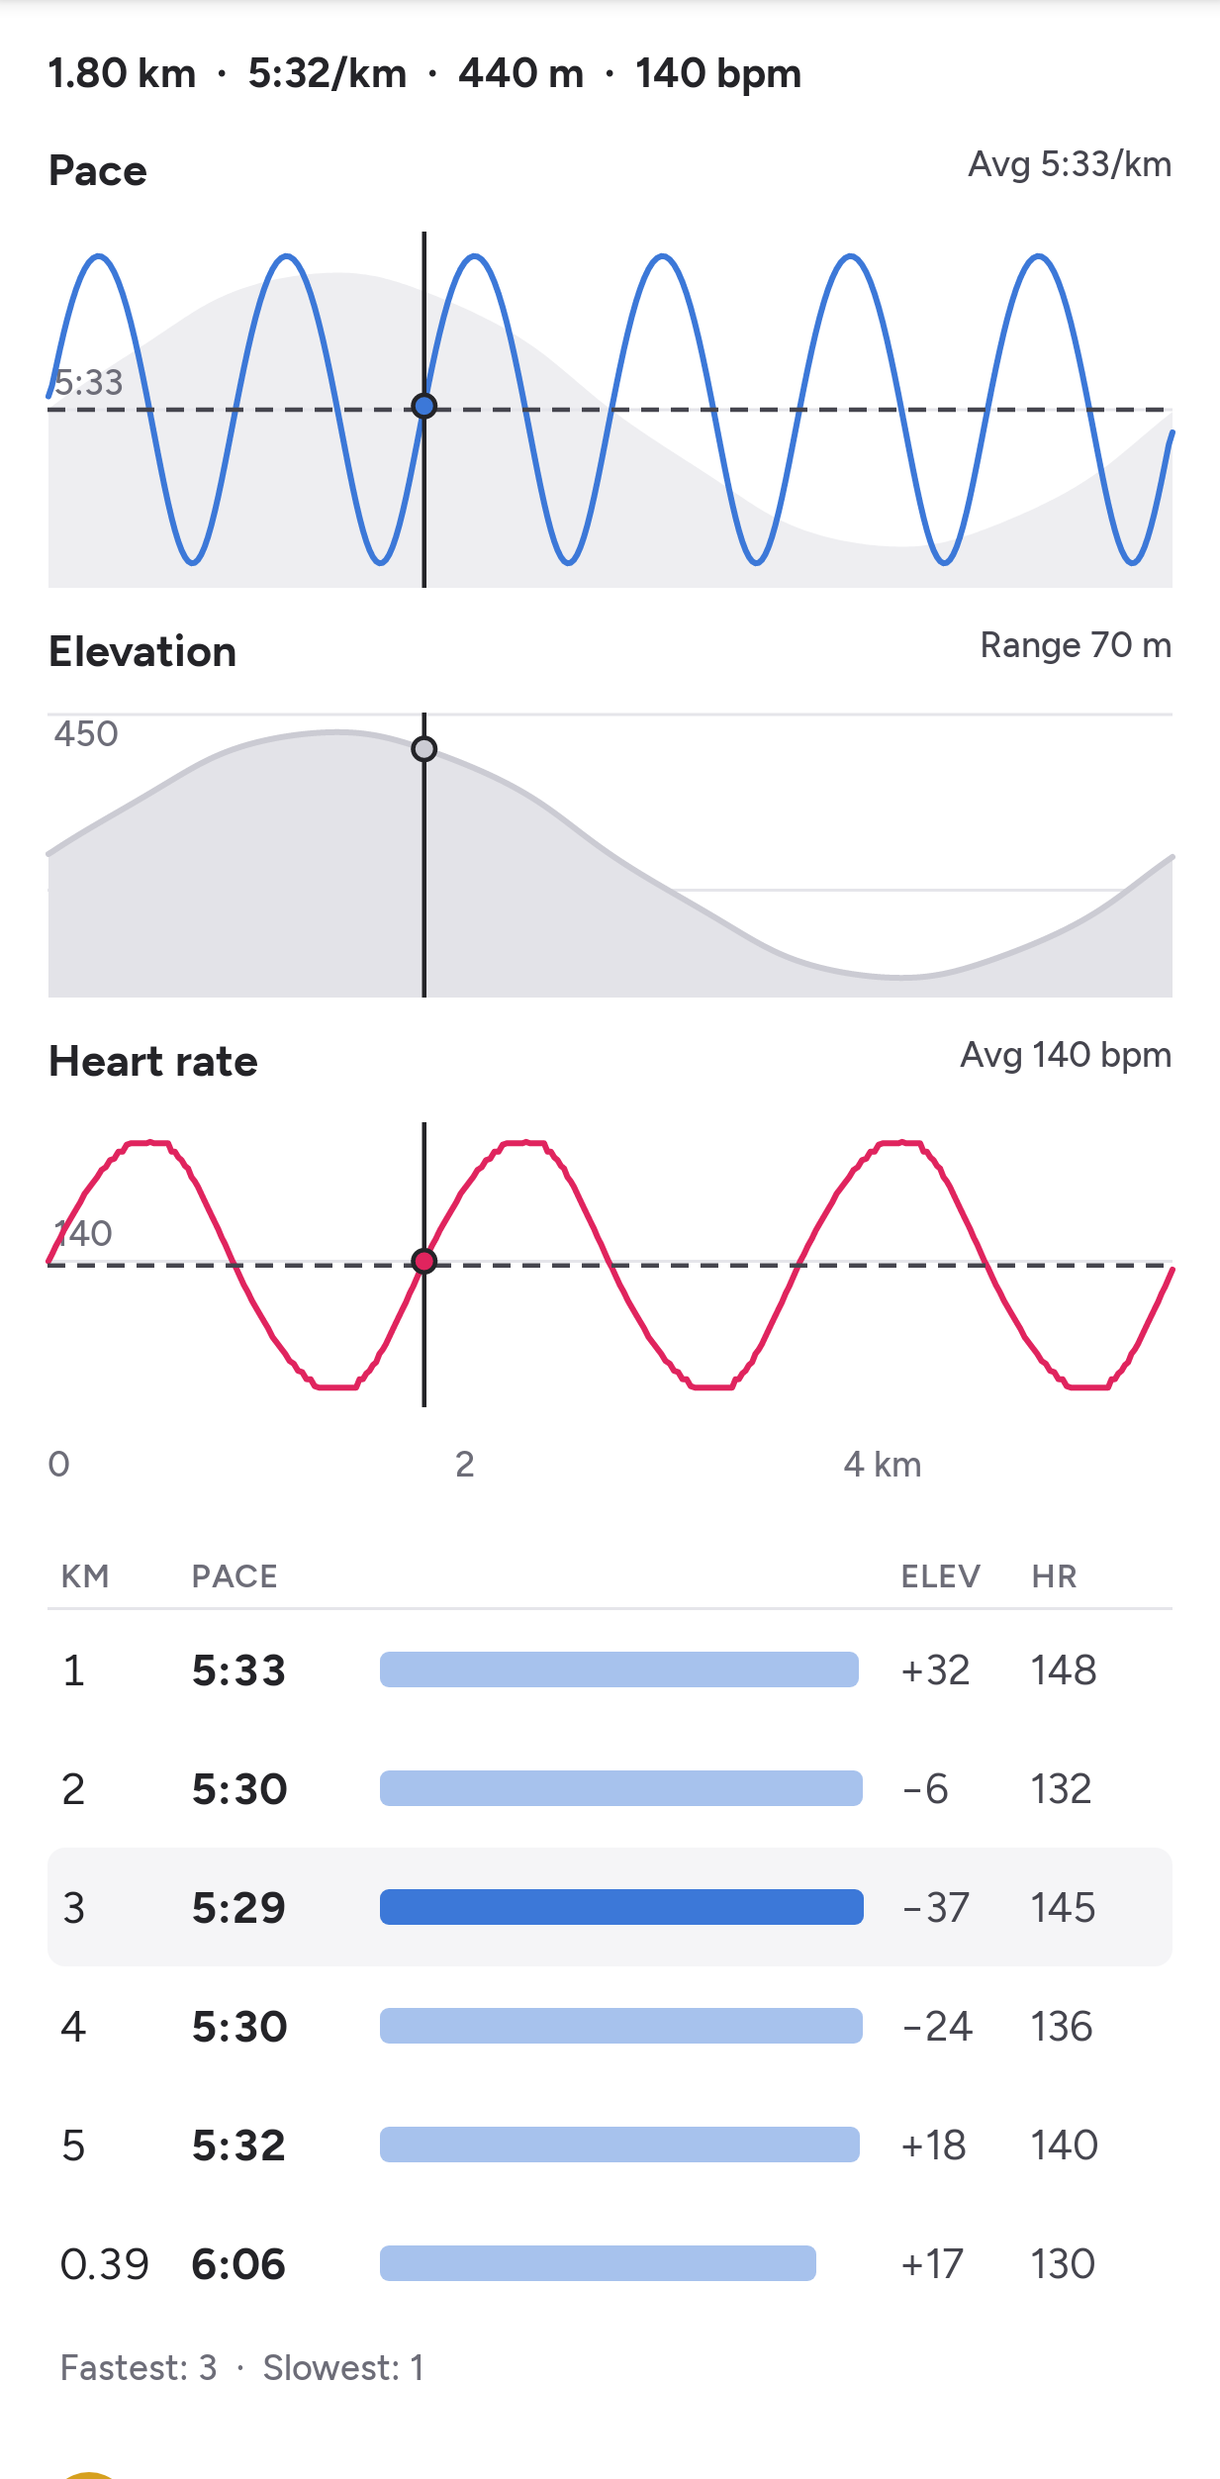
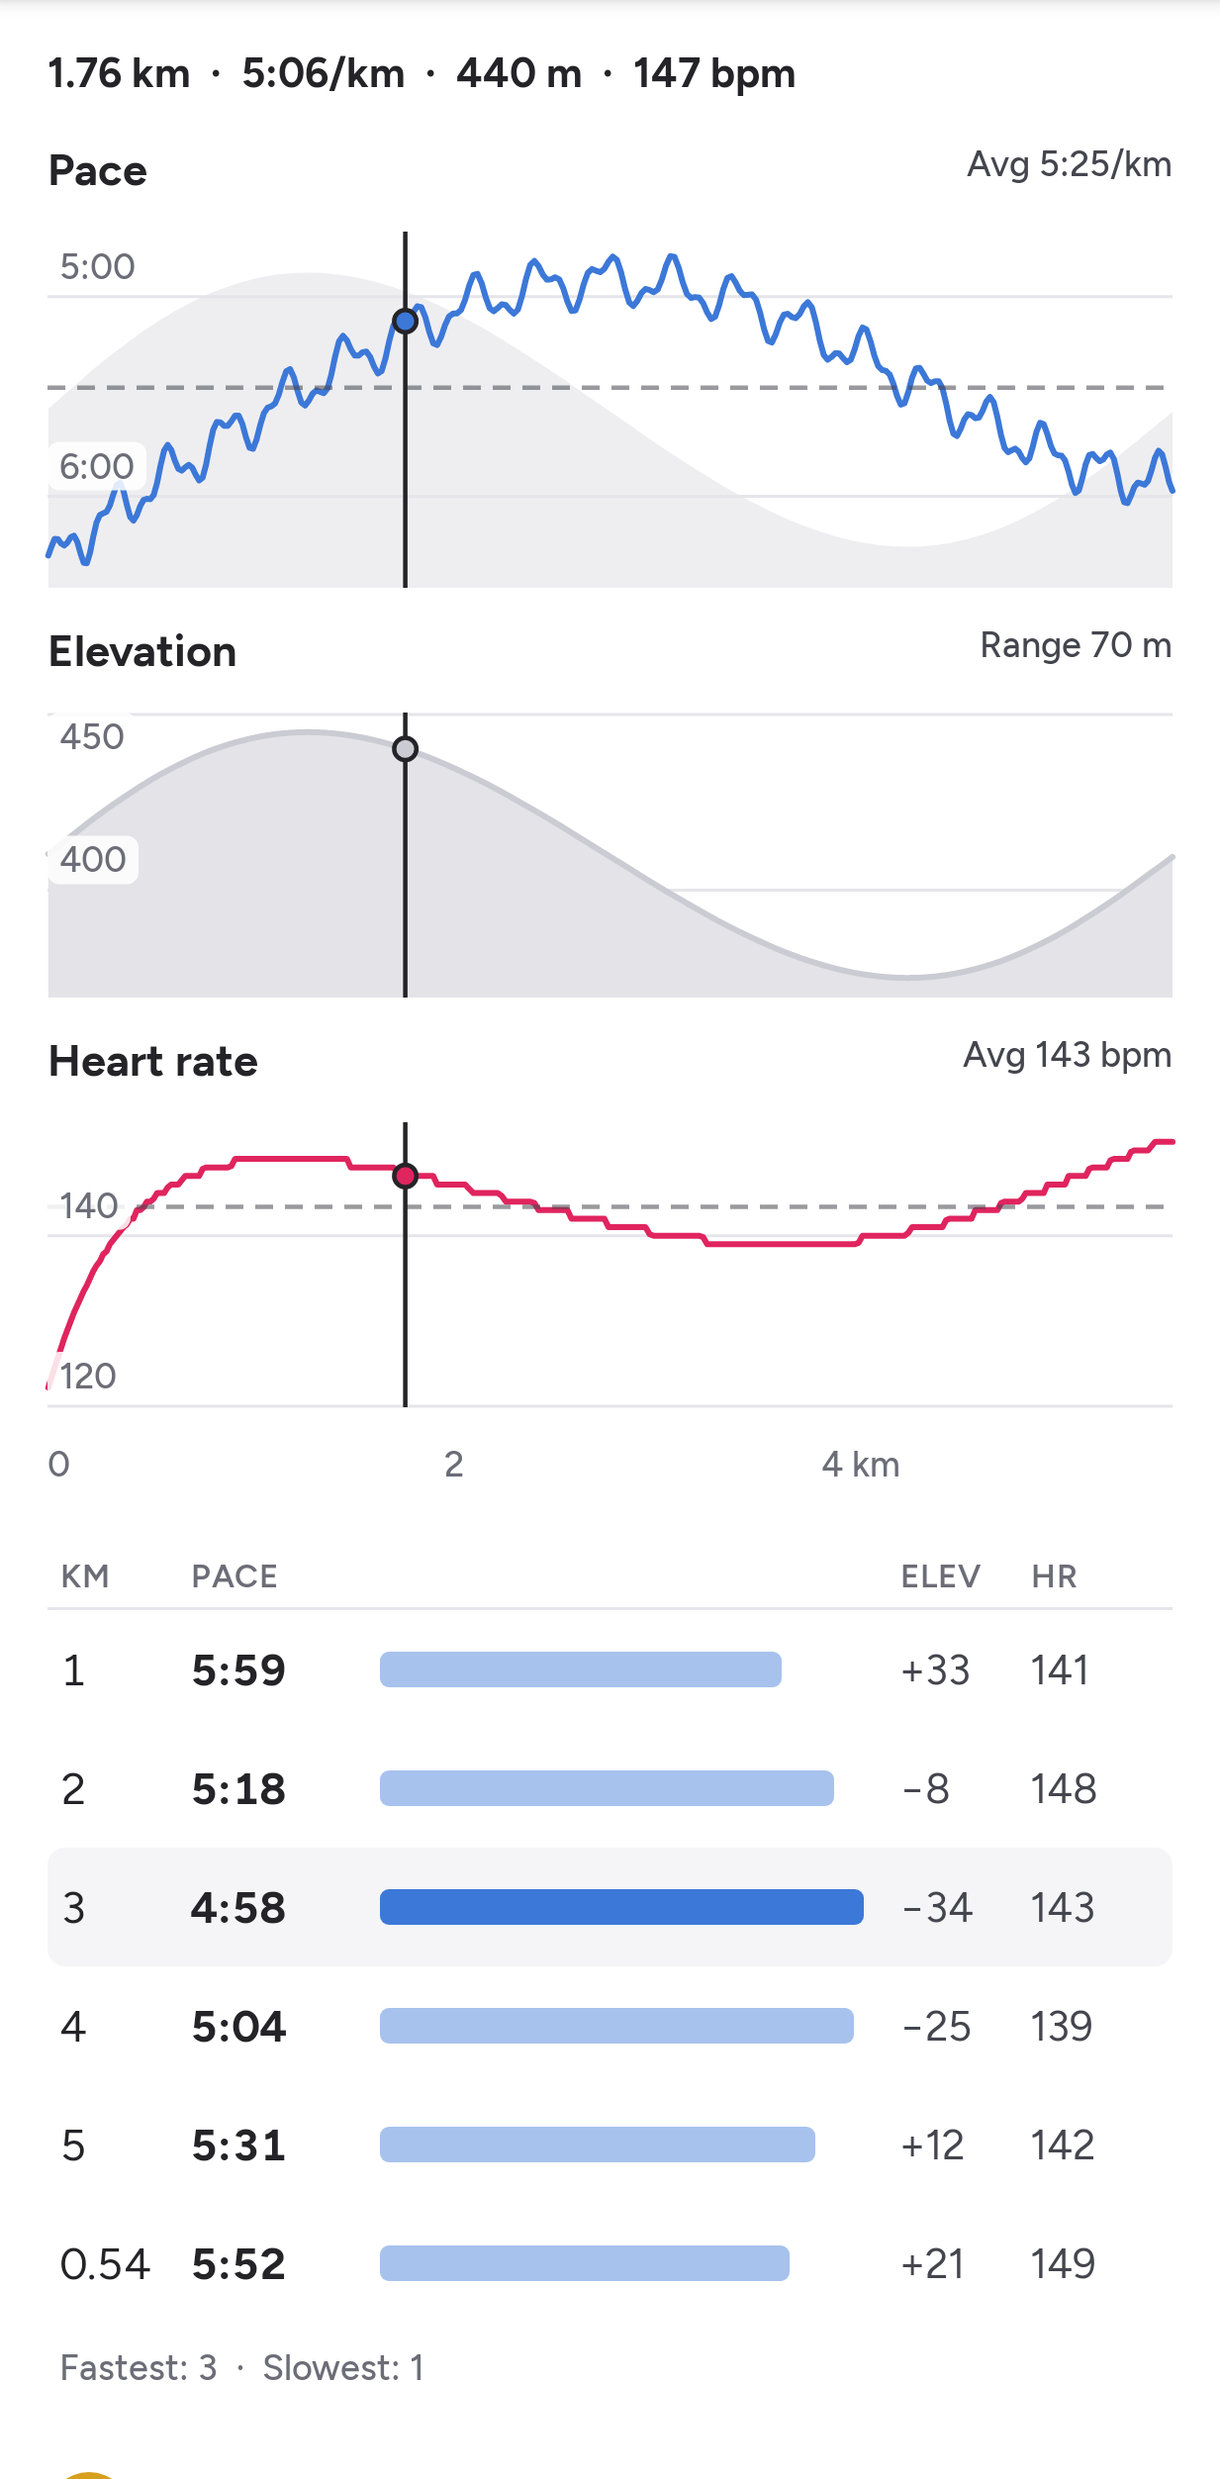
fix(detail): round pace and speed chart labels, legible tick plates, realistic fixture
Pace charts now label round paces (5:00, 5:30) and speed charts round
km/h or mph instead of the odd values that round m/s values produce.
Tick labels sit on a plate above the series so lines never cross them,
and the average line is lighter. The test recording now has a warm-up,
slows on the climb and drifts its heart rate, so screenshots show a
believable run; screenshots re-recorded on the current theme.

diff --git a/android/feature/activity-detail/src/main/kotlin/org/openactivity/feature/activitydetail/chart/ActivityChart.kt b/android/feature/activity-detail/src/main/kotlin/org/openactivity/feature/activitydetail/chart/ActivityChart.kt
@@ -11,7 +11,9 @@ import androidx.compose.runtime.getValue
 import androidx.compose.runtime.remember
 import androidx.compose.runtime.rememberUpdatedState
 import androidx.compose.ui.Modifier
+import androidx.compose.ui.geometry.CornerRadius
 import androidx.compose.ui.geometry.Offset
+import androidx.compose.ui.geometry.Size
 import androidx.compose.ui.graphics.Color
 import androidx.compose.ui.graphics.Path
 import androidx.compose.ui.graphics.PathEffect
@@ -22,6 +24,7 @@ import androidx.compose.ui.graphics.drawscope.Stroke
 import androidx.compose.ui.input.pointer.pointerInput
 import androidx.compose.ui.semantics.contentDescription
 import androidx.compose.ui.semantics.semantics
+import androidx.compose.ui.text.TextLayoutResult
 import androidx.compose.ui.text.TextStyle
 import androidx.compose.ui.text.drawText
 import androidx.compose.ui.text.rememberTextMeasurer
@@ -34,6 +37,7 @@ import androidx.compose.ui.unit.dp
  * @property line the series line.
  * @property fill area under the line, or [Color.Unspecified] for none.
  * @property background optional elevation silhouette drawn behind the series.
+ * @property labelBackground plate behind tick labels so the line never runs through them.
  */
 data class ChartColors(
     val line: Color,
@@ -43,6 +47,7 @@ data class ChartColors(
     val average: Color,
     val scrub: Color,
     val background: Color = Color.Unspecified,
+    val labelBackground: Color = Color.Unspecified,
 )
 
 /**
@@ -53,6 +58,8 @@ data class ChartColors(
  * [yLabel] formats tick values (pace sports pass speed values and print them as pace).
  *
  * @param backgroundMetric optional series drawn as a silhouette behind the line (elevation under pace).
+ * @param tickValues picks the labelled y values for the padded value range; round numbers by default
+ * (pace charts pass [ChartMath.paceTicks] so the labels are round paces).
  */
 @Composable
 fun ActivityChart(
@@ -67,12 +74,15 @@ fun ActivityChart(
     modifier: Modifier = Modifier,
     height: Dp = 120.dp,
     backgroundMetric: ChartMetric? = null,
+    tickValues: ((ClosedFloatingPointRange<Double>) -> List<Double>)? = null,
 ) {
     val series = data.seriesFor(metric) ?: return
     val background = backgroundMetric?.let { data.seriesFor(it) }
     val measurer = rememberTextMeasurer()
     val range = remember(series) { ChartMath.padded(series.min, series.max) }
-    val ticks = remember(range) { ChartMath.niceTicks(range.start, range.endInclusive, 3).filter { it in range } }
+    val ticks = remember(range, tickValues) {
+        (tickValues?.invoke(range) ?: ChartMath.niceTicks(range.start, range.endInclusive, 3)).filter { it in range }
+    }
     val scrub by rememberUpdatedState(onScrub)
 
     Canvas(
@@ -108,13 +118,10 @@ fun ActivityChart(
             val bgRange = ChartMath.padded(background.min, background.max, 0.15)
             drawArea(data, background.values, ::xOf, bgRange.start, bgRange.endInclusive, colors.background)
         }
-        // Grid lines and tick labels.
+        // Grid lines first; their labels go on top of the series at the end.
         for (t in ticks) {
             val y = yOf(t, range.start, range.endInclusive)
             drawLine(colors.grid, Offset(0f, y), Offset(size.width, y), strokeWidth = 1.dp.toPx())
-            val layout = measurer.measure(yLabel(t), labelStyle.copy(color = colors.label))
-            val top = (y - layout.size.height - 2.dp.toPx()).coerceAtLeast(0f)
-            drawText(layout, topLeft = Offset(2.dp.toPx(), top))
         }
         if (colors.fill != Color.Unspecified) {
             drawArea(data, series.values, ::xOf, range.start, range.endInclusive, colors.fill)
@@ -130,6 +137,9 @@ fun ActivityChart(
                 pathEffect = PathEffect.dashPathEffect(floatArrayOf(6.dp.toPx(), 4.dp.toPx())),
             )
         }
+        for (t in ticks) {
+            drawTickLabel(measurer.measure(yLabel(t), labelStyle.copy(color = colors.label)), yOf(t, range.start, range.endInclusive), colors.labelBackground)
+        }
         scrubIndex?.takeIf { it in data.x.indices }?.let { i ->
             val x = xOf(i)
             drawLine(colors.scrub, Offset(x, 0f), Offset(x, size.height), strokeWidth = 1.5.dp.toPx())
@@ -141,6 +151,22 @@ fun ActivityChart(
             }
         }
     }
+}
+
+/** Draws a tick label just above its grid line at the left edge, on a small plate when [plate] is set. */
+private fun DrawScope.drawTickLabel(layout: TextLayoutResult, lineY: Float, plate: Color) {
+    val padH = 4.dp.toPx()
+    val padV = 1.dp.toPx()
+    val top = (lineY - layout.size.height - 2.dp.toPx() - padV).coerceAtLeast(padV)
+    if (plate != Color.Unspecified) {
+        drawRoundRect(
+            color = plate,
+            topLeft = Offset(0f, top - padV),
+            size = Size(layout.size.width + padH * 2, layout.size.height + padV * 2),
+            cornerRadius = CornerRadius(4.dp.toPx()),
+        )
+    }
+    drawText(layout, topLeft = Offset(padH, top))
 }
 
 private fun DrawScope.yOf(value: Double, min: Double, max: Double): Float =

diff --git a/android/feature/activity-detail/src/main/kotlin/org/openactivity/feature/activitydetail/chart/ChartMath.kt b/android/feature/activity-detail/src/main/kotlin/org/openactivity/feature/activitydetail/chart/ChartMath.kt
@@ -207,6 +207,42 @@ object ChartMath {
         return ticks
     }
 
+    /**
+     * Speed values (m/s) inside [speedRange] that land on round paces, so a pace chart is labelled
+     * "5:00", "5:30", "6:00" rather than the odd paces that round speeds turn into. [unitMeters] is the
+     * pace unit (1000 for /km, 1609.344 for /mi, 100 for /100m). The step is the smallest of
+     * 5 s, 10 s, 15 s, 30 s, 1, 2, 5 or 10 min that gives at most [maxTicks] ticks. Empty when the
+     * range has no positive speeds.
+     */
+    fun paceTicks(speedRange: ClosedFloatingPointRange<Double>, unitMeters: Double, maxTicks: Int = 3): List<Double> {
+        require(maxTicks >= 1) { "need at least one tick" }
+        val slowSpeed = speedRange.start
+        val fastSpeed = speedRange.endInclusive
+        if (!(fastSpeed > 0.0) || !slowSpeed.isFinite() || unitMeters <= 0.0) return emptyList()
+        // Slowest pace on the chart; a range reaching zero speed is capped at three times the fastest pace.
+        val fastPace = unitMeters / fastSpeed
+        val slowPace = if (slowSpeed > 0.0) unitMeters / slowSpeed else fastPace * 3
+        val step = PACE_STEPS_SECONDS.firstOrNull { step ->
+            (floor(slowPace / step) - ceil(fastPace / step)).toInt() + 1 <= maxTicks
+        } ?: PACE_STEPS_SECONDS.last()
+        val ticks = ArrayList<Double>()
+        var pace = ceil(fastPace / step) * step
+        while (pace <= slowPace + 1e-9) {
+            if (pace > 0.0) ticks += unitMeters / pace
+            pace += step
+        }
+        return ticks
+    }
+
+    /**
+     * Round ticks in a display unit that is [factor] times the stored one (km/h is 3.6 × m/s), returned
+     * in the stored unit so they plot on the same scale. Labels then read "10", "12", "14" km/h.
+     */
+    fun scaledTicks(range: ClosedFloatingPointRange<Double>, factor: Double, maxTicks: Int = 3): List<Double> {
+        require(factor > 0.0) { "factor must be positive" }
+        return niceTicks(range.start * factor, range.endInclusive * factor, maxTicks).map { it / factor }
+    }
+
     /** [min]..[max] widened by [fraction] of the span on each side (and never empty). */
     fun padded(min: Double, max: Double, fraction: Double = 0.08): ClosedFloatingPointRange<Double> {
         val span = max - min
@@ -245,6 +281,7 @@ object ChartMath {
     }
 
     private val NICE_STEPS = listOf(1.0, 2.0, 2.5, 5.0, 10.0)
+    private val PACE_STEPS_SECONDS = listOf(5.0, 10.0, 15.0, 30.0, 60.0, 120.0, 300.0, 600.0)
     private val PLAUSIBLE_HR = 30.0..230.0
     private const val MAX_GAP_SECONDS = 30.0
 

diff --git a/android/feature/activity-detail/src/test/kotlin/org/openactivity/feature/activitydetail/TestFixtures.kt b/android/feature/activity-detail/src/test/kotlin/org/openactivity/feature/activitydetail/TestFixtures.kt
@@ -24,6 +24,9 @@ import org.openactivity.recording.FinishedActivity
 import org.openactivity.recording.RecordingConfig
 import org.openactivity.recording.RecordingEngine
 import kotlin.math.PI
+import kotlin.math.cos
+import kotlin.math.exp
+import kotlin.math.roundToInt
 import kotlin.math.sin
 
 /** Recordings produced by the real engine from generated input (not real people's data). */
@@ -31,8 +34,9 @@ object Recordings {
     const val START_MILLIS: Long = 1_748_760_600_000L // 2025-06-01T06:50:00Z
 
     /**
-     * A run with varying pace, a hill and heart rate, recorded at 1 Hz with a manual lap halfway.
-     * About 1 km at 2.6-3.4 m/s for every 330 s.
+     * A run over one long hill, recorded at 1 Hz with a manual lap halfway: a slower warm-up, slower on
+     * the climb and quicker on the descent, small stride-to-stride wobble, and a heart rate that settles,
+     * follows the effort and drifts up. About 1 km per 330 s at 2.7-3.4 m/s.
      */
     fun hillyRun(seconds: Int = 1500, sport: SportType = SportType.RUN, withHeartRate: Boolean = true): FinishedActivity {
         val engine = RecordingEngine(RecordingConfig(sport, unitSystem = UnitSystem.METRIC))
@@ -41,7 +45,11 @@ object Recordings {
         engine.process(EngineInput.UserAction(base, Action.START, START_MILLIS))
         for (s in 1..seconds) {
             val t = base + s * 1_000_000_000L
-            val speed = 3.0 + 0.4 * sin(2 * PI * s / 300.0)
+            val phase = 2 * PI * s / seconds
+            val climbing = cos(phase) // altitude follows sin(phase), so its slope follows cos(phase)
+            val warmUp = 0.25 * exp(-s / 150.0)
+            val wobble = 0.06 * sin(2 * PI * s / 97.0) + 0.04 * sin(2 * PI * s / 41.0)
+            val speed = 3.1 - 0.28 * climbing - warmUp + wobble
             position = Spherical.destination(position, 70.0 + 30 * sin(2 * PI * s / 900.0), speed)
             engine.process(
                 EngineInput.Location(
@@ -55,7 +63,8 @@ object Recordings {
                     speedMps = speed,
                 ),
             )
-            if (withHeartRate) engine.process(EngineInput.HeartRate(t, (140 + 15 * sin(2 * PI * s / 600.0)).toInt()))
+            val heartRate = 118 + 24 * (1 - exp(-s / 120.0)) + 7 * sin(phase + PI / 6) + 6.0 * s / seconds
+            if (withHeartRate) engine.process(EngineInput.HeartRate(t, heartRate.roundToInt()))
             if (s == seconds / 2) engine.process(EngineInput.UserAction(t, Action.LAP))
         }
         engine.process(EngineInput.UserAction(base + (seconds + 1) * 1_000_000_000L, Action.FINISH))

diff --git a/android/feature/activity-detail/src/test/kotlin/org/openactivity/feature/activitydetail/chart/ChartMathTest.kt b/android/feature/activity-detail/src/test/kotlin/org/openactivity/feature/activitydetail/chart/ChartMathTest.kt
@@ -101,4 +101,36 @@ class ChartMathTest {
     fun `fewer than two points give no chart`() {
         assertNull(ChartMath.build(listOf(point(0, 0.0, 0.0)), SportType.RUN))
     }
+
+    @Test
+    fun `pace ticks land on round paces inside the speed range`() {
+        // 2.7..3.4 m/s is 6:10..4:54 per km: 30 s steps give 5:00, 5:30 and 6:00.
+        val ticks = ChartMath.paceTicks(2.7..3.4, unitMeters = 1000.0)
+        assertEquals(listOf(300.0, 330.0, 360.0), ticks.map { Math.round(1000.0 / it).toDouble() }.sorted())
+        assertTrue(ticks.all { it in 2.7..3.4 })
+    }
+
+    @Test
+    fun `pace ticks widen the step to stay within the tick budget`() {
+        // 1.5..4.0 m/s is 11:07..4:10 per km: whole minutes give too many ticks, two minutes give 6:00, 8:00, 10:00.
+        val paces = ChartMath.paceTicks(1.5..4.0, unitMeters = 1000.0, maxTicks = 3).map { Math.round(1000.0 / it) }.sorted()
+        assertEquals(listOf(360L, 480L, 600L), paces)
+    }
+
+    @Test
+    fun `pace ticks handle a range that reaches zero speed`() {
+        val ticks = ChartMath.paceTicks(-0.2..3.0, unitMeters = 1000.0)
+        assertTrue(ticks.isNotEmpty())
+        assertTrue(ticks.all { it > 0.0 && it <= 3.0 })
+        assertTrue(ChartMath.paceTicks(-1.0..0.0, unitMeters = 1000.0).isEmpty())
+    }
+
+    @Test
+    fun `scaled ticks are round in the display unit`() {
+        // 5.5..8.5 m/s is 19.8..30.6 km/h.
+        val kmh = ChartMath.scaledTicks(5.5..8.5, factor = 3.6).map { it * 3.6 }
+        assertTrue(kmh.isNotEmpty())
+        kmh.forEach { assertEquals(Math.round(it).toDouble(), it, 1e-9) }
+        assertTrue(kmh.any { it in 19.8..30.6 })
+    }
 }

diff --git a/android/feature/activity-detail/src/main/kotlin/org/openactivity/feature/activitydetail/ui/AnalysisSection.kt b/android/feature/activity-detail/src/main/kotlin/org/openactivity/feature/activitydetail/ui/AnalysisSection.kt
@@ -9,6 +9,7 @@ import androidx.compose.foundation.layout.heightIn
 import androidx.compose.material3.MaterialTheme
 import androidx.compose.material3.Text
 import androidx.compose.runtime.Composable
+import androidx.compose.runtime.remember
 import androidx.compose.ui.Modifier
 import androidx.compose.ui.layout.Layout
 import androidx.compose.ui.graphics.Color
@@ -46,9 +47,18 @@ internal fun AnalysisSection(
         fill = Color.Unspecified,
         grid = RidgelineTheme.colors.hairline,
         label = RidgelineTheme.colors.textMuted,
-        average = viz.goalLine,
+        average = viz.goalLine.copy(alpha = 0.55f),
         scrub = MaterialTheme.colorScheme.onSurface,
+        labelBackground = MaterialTheme.colorScheme.background.copy(alpha = 0.85f),
     )
+    val paceUnit = DetailFormat.paceUnitMeters(sport, units)
+    val speedTicks: (ClosedFloatingPointRange<Double>) -> List<Double> = remember(paceUnit, units) {
+        if (paceUnit != null) {
+            { r -> ChartMath.paceTicks(r, paceUnit) }
+        } else {
+            { r -> ChartMath.scaledTicks(r, DetailFormat.speedDisplayFactor(units)) }
+        }
+    }
     val labelStyle = RidgelineTheme.text.caption
     Column(modifier.fillMaxWidth(), verticalArrangement = Arrangement.spacedBy(Spacing.m)) {
         Readout(data, sport, units, scrubIndex)
@@ -64,6 +74,7 @@ internal fun AnalysisSection(
                 scrubIndex = scrubIndex,
                 onScrub = onScrub,
                 backgroundMetric = ChartMetric.ELEVATION,
+                tickValues = speedTicks,
             )
         }
         data.seriesFor(ChartMetric.ELEVATION)?.let { s ->

diff --git a/android/feature/activity-detail/src/main/kotlin/org/openactivity/feature/activitydetail/format/DetailFormat.kt b/android/feature/activity-detail/src/main/kotlin/org/openactivity/feature/activitydetail/format/DetailFormat.kt
@@ -87,6 +87,21 @@ object DetailFormat {
         }
     }
 
+    /**
+     * Distance in metres that [sport]'s pace is given per (1000, a mile, 100 or 500), or null when the
+     * sport shows speed instead of pace.
+     */
+    fun paceUnitMeters(sport: SportType, units: UnitSystem): Double? = when (sport.speedDisplay) {
+        SpeedDisplay.PACE -> units.splitLengthMeters
+        SpeedDisplay.PACE_PER_100M -> 100.0
+        SpeedDisplay.PACE_PER_500M -> 500.0
+        SpeedDisplay.SPEED -> null
+    }
+
+    /** Multiplier from m/s to the shown speed unit (km/h or mph). */
+    fun speedDisplayFactor(units: UnitSystem): Double =
+        if (units == UnitSystem.METRIC) 3.6 else 3600.0 / UnitConstants.METERS_PER_MILE
+
     /** "Pace" or "Speed" for [sport]. */
     fun speedLabel(sport: SportType): String = if (sport.displaysPace) "Pace" else "Speed"
 
